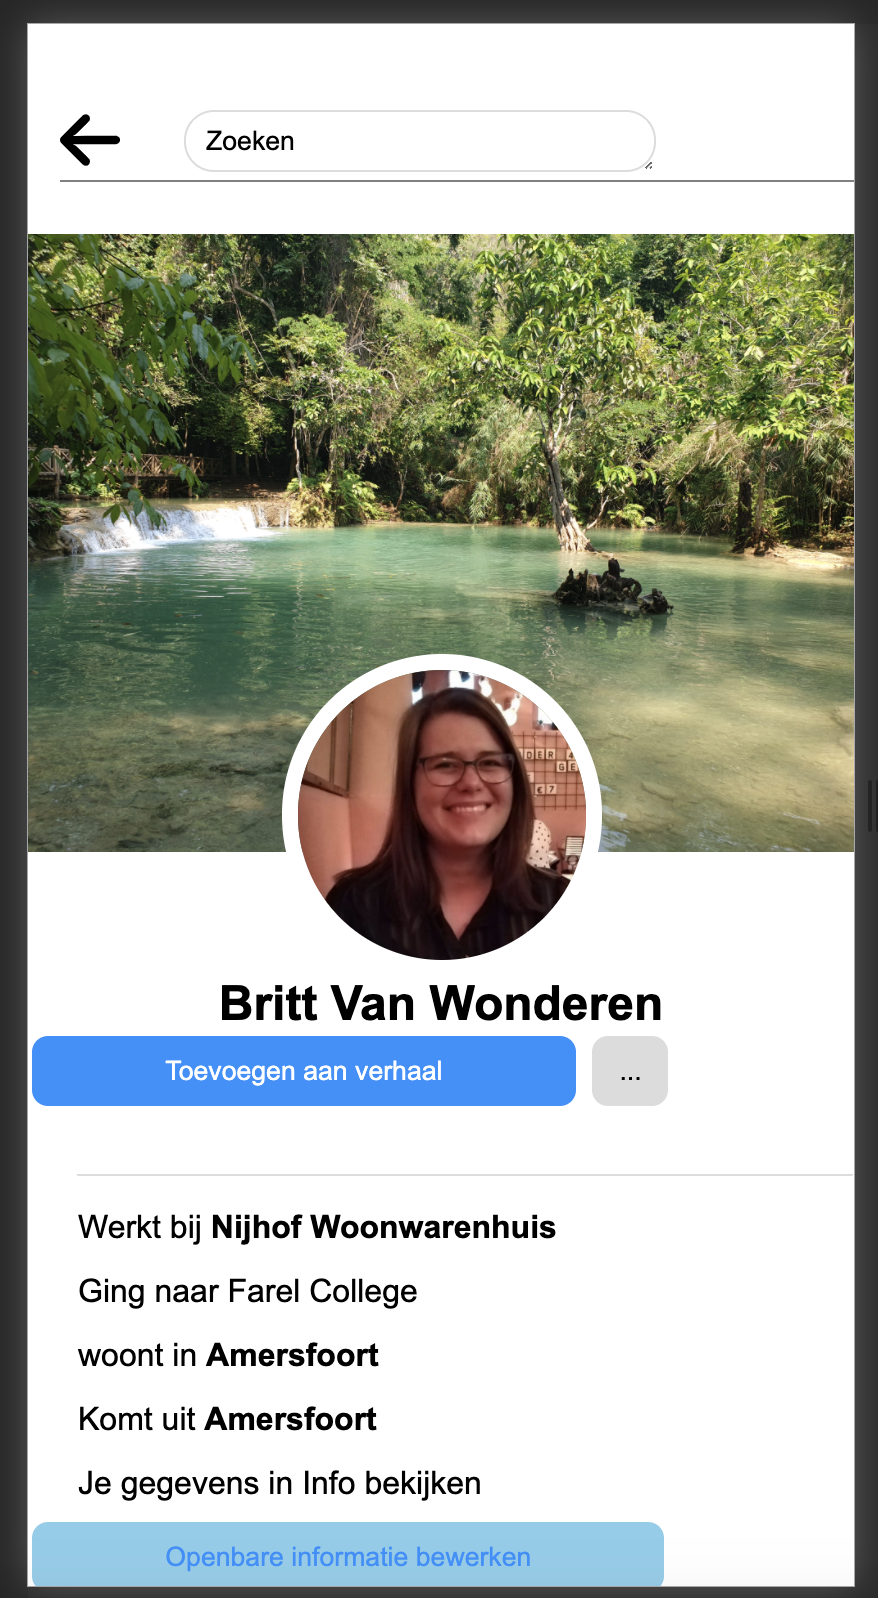
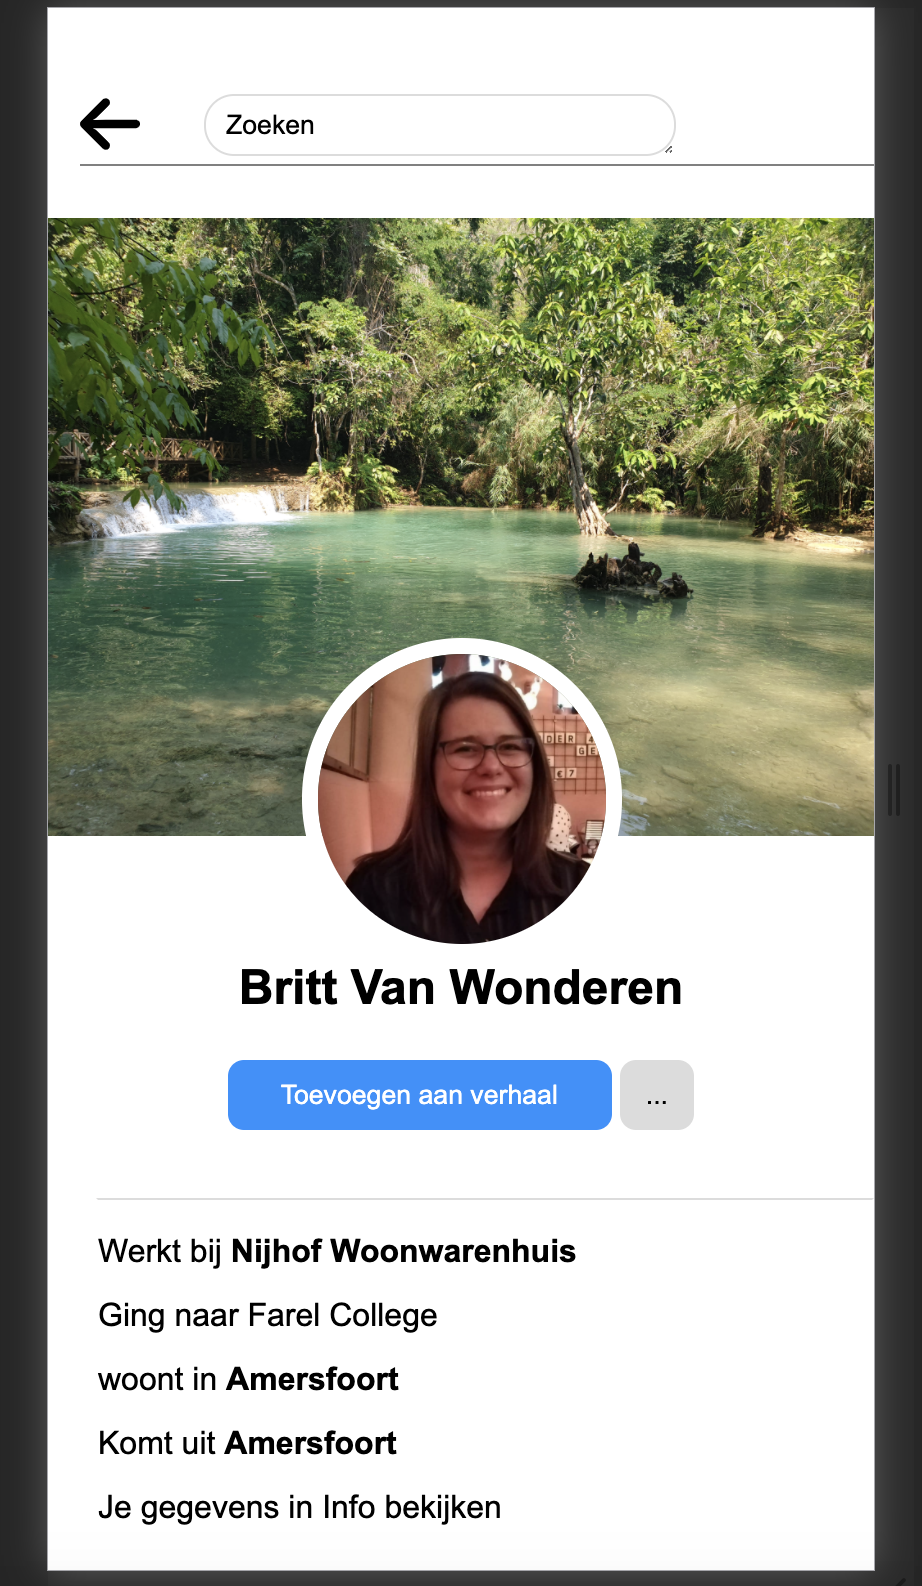
Add files via upload

diff --git a/styles/style.css b/styles/style.css
@@ -39,8 +39,7 @@ img {
     display: flex;
     justify-content: space-around;
     margin-top: 2em;
-    border: 1px solid white;
-    border-bottom-color: gainsboro;
+    margin-bottom: 10px;
 }
 
 .profile {
@@ -48,7 +47,10 @@ img {
     border-radius: 100px;
     margin: 1em;
     border: 1px solid white;
-    border-bottom-color: gainsboro;
+}
+
+.profile:focus{
+    border: 5px solid dodgerblue;
 }
 
 textarea {
@@ -59,6 +61,10 @@ textarea {
     border-color: gainsboro;
 }
 
+textarea:focus{
+    background-color: gainsboro;
+}
+
 div {
     display: flex;
 }
@@ -66,9 +72,6 @@ div {
 .space {
     justify-content: space-around;
     margin: 10px;
-    border: 1px solid white;
-    border-top-color: gainsboro;
-    padding-top: 20px;
 }
 
 .line{
@@ -81,11 +84,6 @@ div {
 .mensen{
     justify-content: space-around;
     margin: 10px;
-    border: 10px solid white;
-    border-top-color: gainsboro;
-    border-bottom-color: gainsboro;
-    padding-top: 10px;
-    padding-bottom: 10px;
 }
 
 .down{
@@ -95,7 +93,9 @@ div {
 .border{
     border-color: dodgerblue;
     width: 130px;
-    padding-bottom: 10px
+    padding-bottom: 10px;
+    display: flex;
+    align-content: center;
 }
 
 .javaBtn{
@@ -103,13 +103,12 @@ div {
     border: 2px solid black;
 }
 
-button {
+button{
     border-radius: 50px;
     padding: 5px;
     border-color: gainsboro;
     background-color: white;
     border: 2px solid white;
-
 }
 
 .story {
@@ -123,9 +122,6 @@ button {
     width: 100%;
     margin-top: 10px;
     margin-bottom: 10px;
-    border: 10px solid white;
-    border-bottom-color: gainsboro;
-    padding-bottom: 10px;
 }
 
 .postBr{
@@ -136,7 +132,6 @@ button {
 
 .tweedeHead {
     margin: 1em;
-    border-bottom: 1px solid gray;
     width: 100%;
 }
 
@@ -192,8 +187,6 @@ ul {
     margin-top: 2em;
     line-height: 2em;
     margin-left: 1.5em;
-    border: 1px solid white;
-    border-top-color: gainsboro;
     padding-top: 10px;
 }
 
@@ -217,11 +210,8 @@ ul {
 
 .postBrL{
     width: 100%;
-    margin-top: 10px;
+    margin-top: 15px;
     margin-bottom: 10px;
-    border: 1px solid white;
-    border-top-color: gainsboro;
-    padding-top: 5px;
 }
 
 div .animation{
@@ -249,3 +239,25 @@ section.animation div{
     animation-iteration-count: infinite;
 }
 
+.big{
+    border: 10px solid gainsboro;
+}
+
+hr{
+    border: 1px solid gainsboro;
+    margin-top: 1em;
+}
+
+button:focus{
+    background-color: black;
+    color: white;
+}
+
+button:hover{
+    background-color: crimson;
+    color: white;
+}
+
+textarea:hover{
+    background-color: dodgerblue;
+}

diff --git a/index.html b/index.html
@@ -45,6 +45,7 @@
                 <img src="images/menu.svg" alt="menu button" title="menu">
             </figure>
         </nav>
+        <hr>
     </section>
     <section>
         <div>
@@ -52,9 +53,10 @@
                 <a href="profiel.html"><img class="profile" src="images/profile.pic.jpg" alt="profile picture" title="profile pic"></a>
             </figure>
             <form>
-                <textarea name="comment" cols="25" rows="1">Wat ben je aant het doen?</textarea>
+                <textarea name="comment" cols="25" rows="1">Wat ben je aan het doen?</textarea>
             </form>
         </div>
+        <hr>
     </section>
     <section>
         <div class="space">
@@ -67,10 +69,11 @@
             <figure>
                 <img src="images/ruimte.svg" alt="Ruimte button" title="ruimte">
             </figure>
-        </div>
+            </div>
+        <hr class="big">
         <div class="mensen">
             <button type="button" class="border" id="java">
-                <img src="images/ruimte.svg" alt="Ruimte button" title="ruimte">Ruimte maken</button>
+                <img src="images/ruimte.svg" alt="Ruimte button" title="ruimte"><span>Ruimte maken</span></button>
             <figure>
                 <img class="down" src="images/small.profile.svg" alt="small profiles" title="profile">
             </figure>
@@ -84,21 +87,24 @@
                 <img class="down" src="images/small.profile.svg" alt="small profiles" title="profile">
             </figure>
         </div>
+        <hr class="big">
     </section>
     <section class="animation">
         <div>
             <figure>
                 <img class="story" src="images/story.png" alt="facebook story" title="story">
-
-            </figure>
+                </figure>
         </div>
+        <hr class="big">
     </section>
     <figure>
         <img class="post" src="images/post.png" alt="post" title="post">
     </figure>
+    <hr class="big">
     <figure>
         <img class="post" src="images/post.2.png" alt="post" title="post">
     </figure>
+    <hr class="big">
     <figure>
         <img class="post" src="images/post.3.png" alt="post" title="post">
     </figure>

diff --git a/profiel.html b/profiel.html
@@ -20,6 +20,7 @@
                 <textarea name="comment" cols="30" rows="1">Zoeken</textarea>
             </form>
         </div>
+        <hr>
     </section>
     <section>
         <div class="banner">
@@ -30,11 +31,12 @@
         </div>
     </section>
     <section>
-        <h1>Britt Van Wonderen</h1>
+        <h1>Britt van Wonderen</h1>
             <div class="test">
                 <button class="profielBtn">Toevoegen aan verhaal</button>
                 <button class="dot">...</button>
             </div>
+            <hr>
         <ul>
             <li>Werkt bij <b>Nijhof Woonwarenhuis</b></li>
             <li>Ging naar Farel College</li>
@@ -45,6 +47,7 @@
         <div class="test">
             <button class="info">Openbare informatie bewerken</button>
         </div>
+        <hr>
     </section>
     <section>
         <figure>
@@ -53,13 +56,16 @@
         <div class="test">
             <button class="vrienden">Alle vrienden weergeven</button>
         </div>
+        <hr class="big">
     </section>
    <figure>
         <img class="post" src="images/post.png" alt="post" title="post">
     </figure>
+    <hr class="big">
     <figure>
         <img class="post" src="images/post.2.png" alt="post" title="post">
     </figure>
+    <hr class="big">
     <figure>
         <img class="post" src="images/post.3.png" alt="post" title="post">
     </figure>
